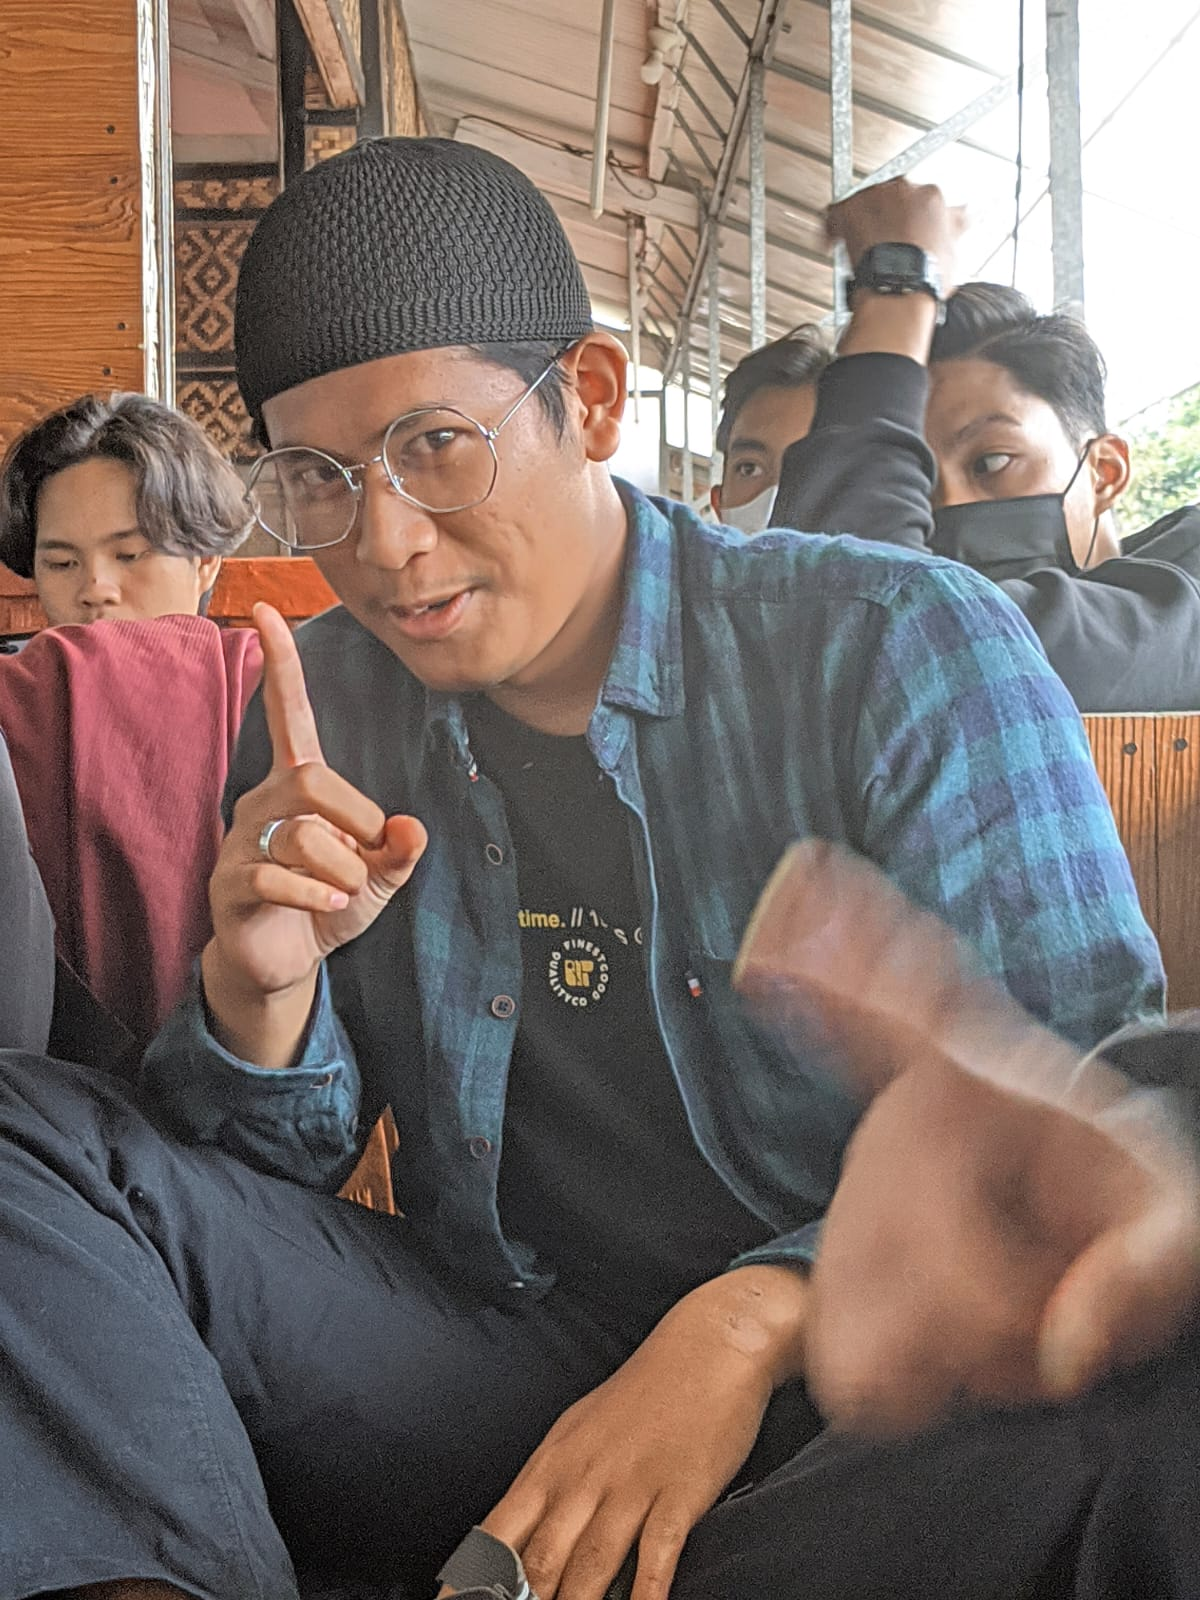
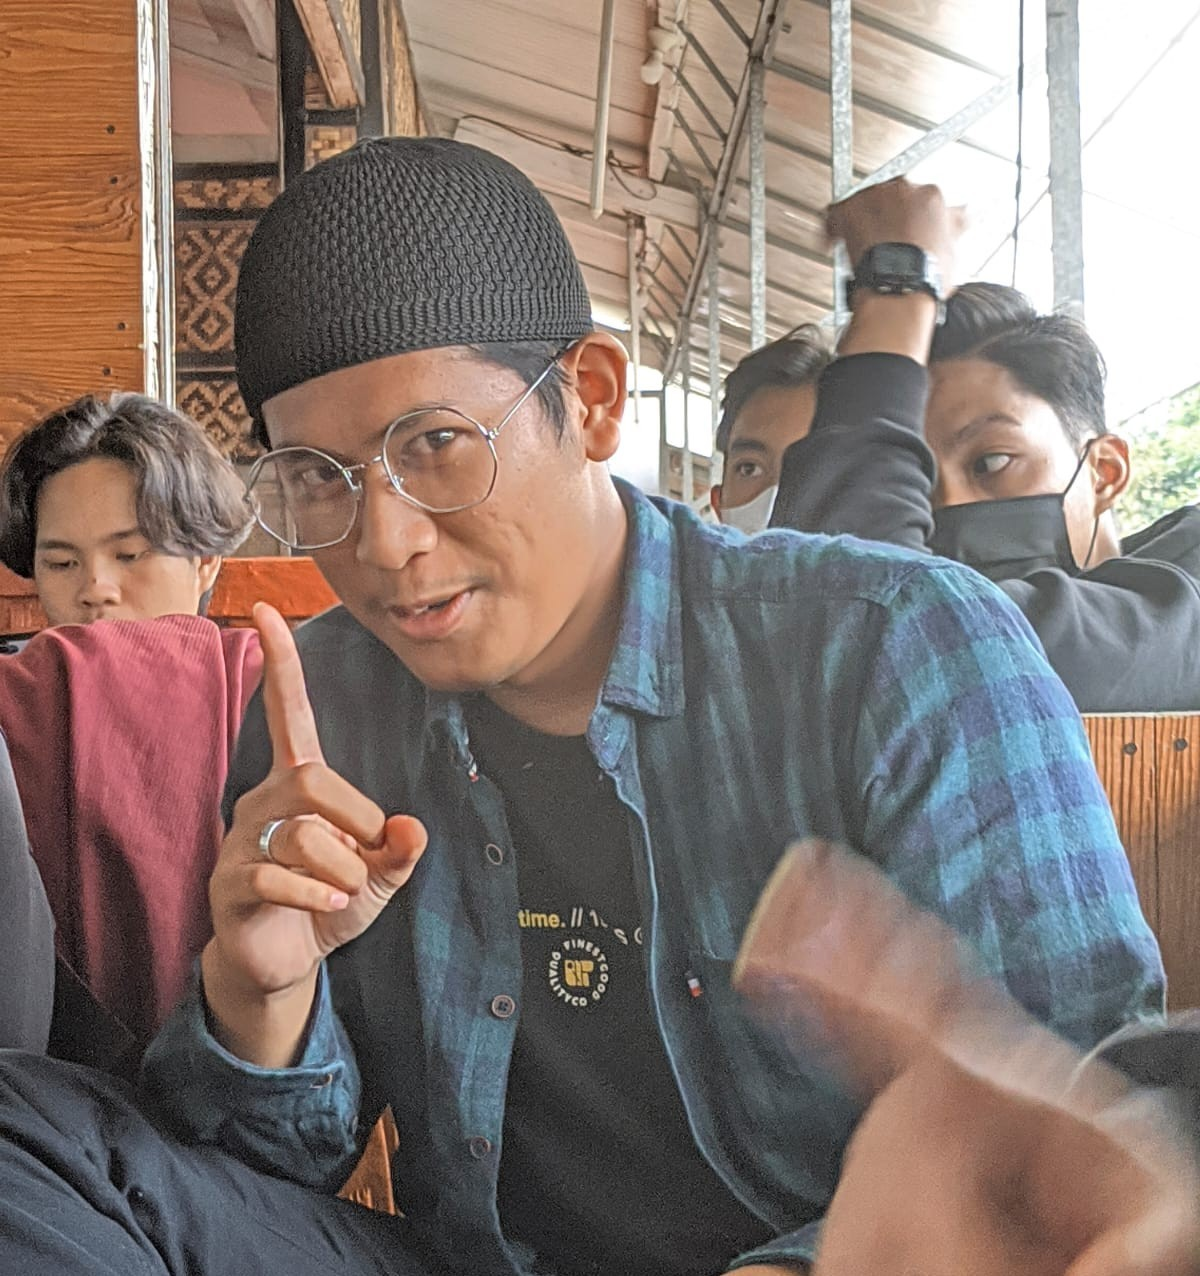
update

diff --git a/anggota/bonggow.html b/anggota/bonggow.html
@@ -44,6 +44,8 @@
     <section class="galeri-personal">
         <div class="foto-grid-personal">
             <img src="../asset/img/gow1.jpg" alt="Foto 1">
+            <img src="../asset/img/gow2.jpg" alt="Foto 2">
+            <img src="../asset/img/gow3.jpeg" alt="Foto 3">
         </div>
     </section>
 
